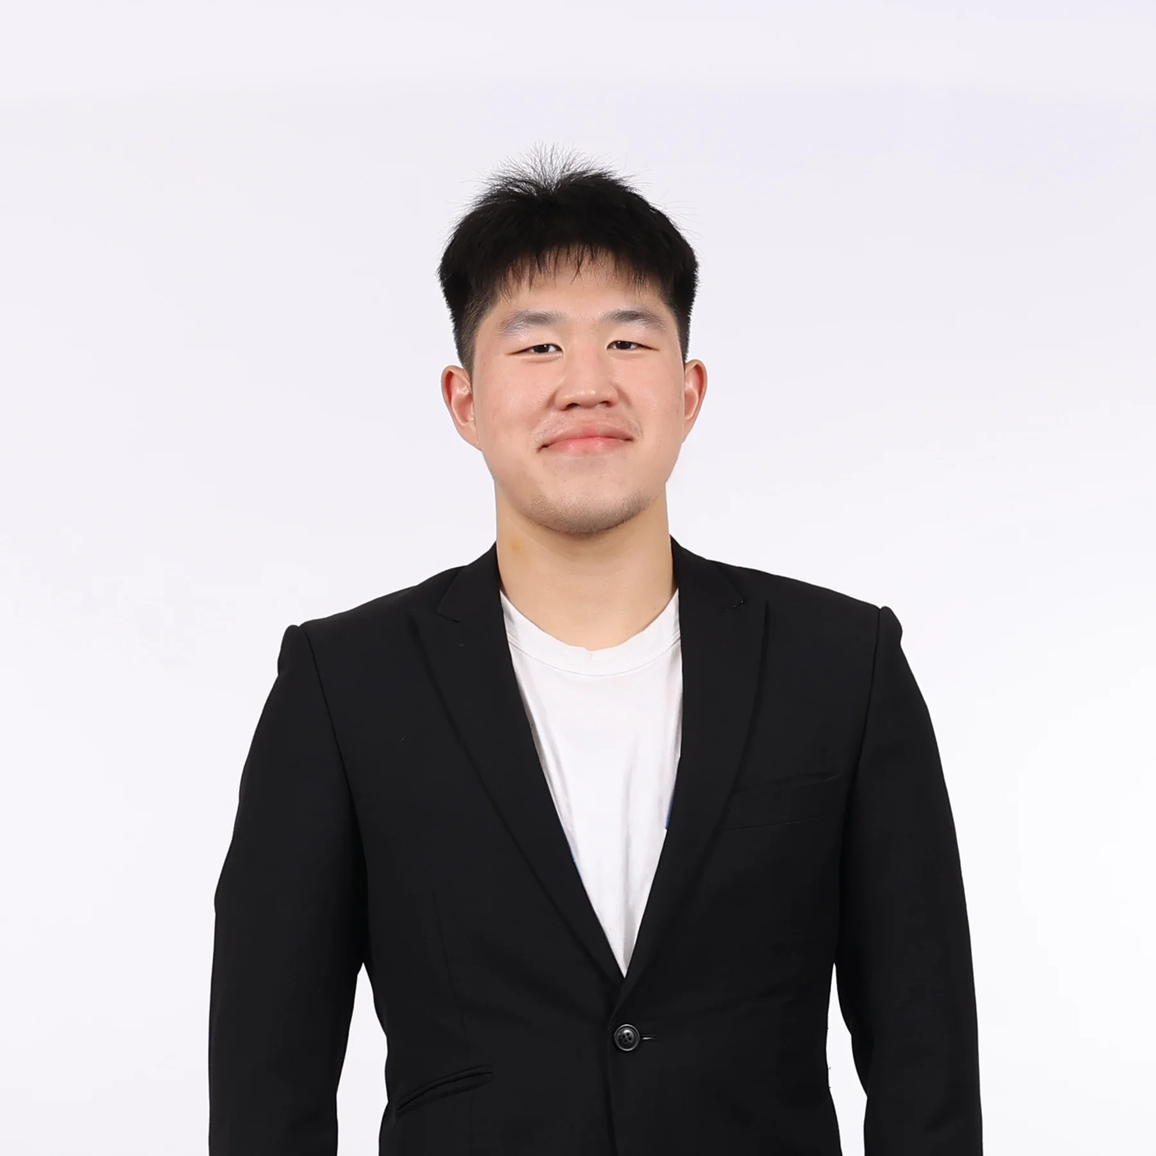
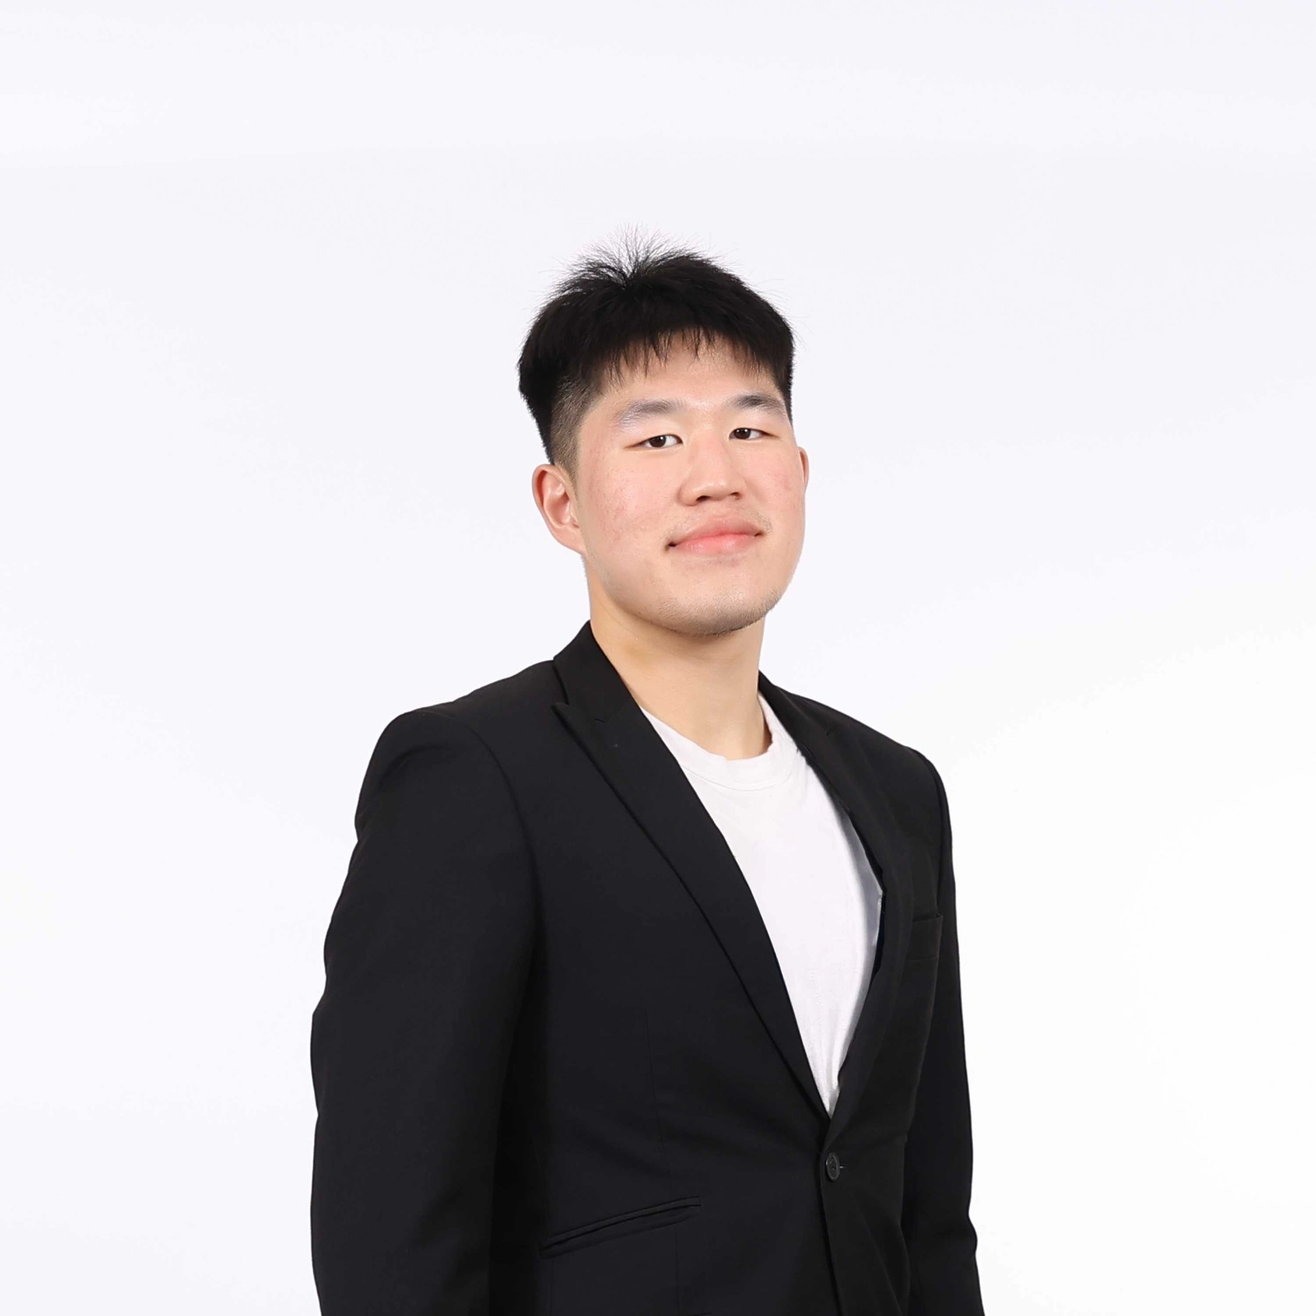
feat(visual): combined photographic refresh and official brand identities (#47)
* feat(visual): implement combined photographic refresh and official brand identities

- Replace professional hero portrait with high-resolution 2048x2048 authentic photo
- Upgrade FIBA U18 Asia Cup achievement photo to 2048x1365 authentic action capture
- Add FIBA U18 Asia Cup photo to active Athlete Gallery with full-resolution link and updated counts (All: 4, Indonesia: 3, DBL All-Star: 1)
- Integrate official R&E Technologies dark lockup into homepage entrepreneurship chapter
- Integrate official RBL gold emblem into homepage creative initiatives card
- Integrate official R&E and RBL brand logos into Projects supporting venture cards
- Update media manifest and media rights register with verified provenance
- Update gallery progressive fallback and content-media test suites

* docs(rights): refine FIBA U18 action photo verification basis

---------

Changed region(s): [[0.1556, 0.1244, 0.8711, 1.0], [0.5289, 0.8711, 0.56, 0.9022]]

diff --git a/src/components/editorial/gallery.tsx b/src/components/editorial/gallery.tsx
@@ -38,6 +38,15 @@ const photos: GalleryPhotoItem[] = [
       "Richie Linardi supplied photo archive · Approved derivative crop",
   },
   {
+    id: "fibaU18",
+    category: "indonesia",
+    title: "FIBA U18 Asia Cup 2024",
+    location: "Amman, Jordan",
+    year: "2024",
+    provenance:
+      "Owner-supplied tournament action photograph · FIBA U18 Asia Cup 2024",
+  },
+  {
     id: "allStar",
     category: "all-star",
     title: "DBL Indonesia All-Star 2024",
@@ -50,13 +59,18 @@ const photos: GalleryPhotoItem[] = [
 
 export function AthleteGallery() {
   const [activeFilter, setActiveFilter] = useState("all");
+  const allCount = photos.length;
+  const indonesiaCount = photos.filter(
+    (p) => p.category === "indonesia",
+  ).length;
+  const allStarCount = photos.filter((p) => p.category === "all-star").length;
 
   return (
     <>
       <PageIntro
         eyebrow="Personal Photo Archive"
         title="Moments that define the competitive journey."
-        description="On the court, with teammates, and at the podium. An authentic collection of high-resolution photographs documenting competition milestones across Da Nang and Jakarta."
+        description="On the court, with teammates, and at the podium. An authentic collection of high-resolution photographs documenting competition milestones across Amman, Da Nang and Jakarta."
       />
 
       <section
@@ -65,9 +79,9 @@ export function AthleteGallery() {
       >
         <div className="gallery-toolbar">
           <p className="gallery-count" aria-live="polite">
-            <span data-count="all">3 photographs</span>
-            <span data-count="indonesia">2 photographs</span>
-            <span data-count="all-star">1 photograph</span>
+            <span data-count="all">{`${allCount} photographs`}</span>
+            <span data-count="indonesia">{`${indonesiaCount} photographs`}</span>
+            <span data-count="all-star">{`${allStarCount} photograph`}</span>
           </p>
 
           <fieldset className="filter-tabs">
@@ -75,9 +89,9 @@ export function AthleteGallery() {
               Filter photographs by competition
             </legend>
             {[
-              ["all", "All photos (3)"],
-              ["indonesia", "Indonesia (2)"],
-              ["all-star", "DBL All-Star (1)"],
+              ["all", `All photos (${allCount})`],
+              ["indonesia", `Indonesia (${indonesiaCount})`],
+              ["all-star", `DBL All-Star (${allStarCount})`],
             ].map(([id, label]) => (
               <label className="filter-label" key={id}>
                 <input

diff --git a/src/data/media-manifest.ts b/src/data/media-manifest.ts
@@ -51,6 +51,57 @@ export const mediaManifest: readonly MediaItem[] = [
     height: photo.height,
   })),
   {
+    id: "re-brand-primary-dark",
+    filename: "/branding/re-primary-dark.webp",
+    targetRoute: "/",
+    mediaType: "image/webp",
+    provenance: "2. Approved derivative/crop",
+    caption: "R&E Technologies — owner-supplied brand identity",
+    altText: "R&E Technologies logo",
+    creditSource: "Owner-supplied R&E Technologies brand identity board",
+    usageStatus: "VERIFIED",
+    verificationBasis:
+      "Portfolio owner supplied the brand reference and requested section-specific website use; extracted without redrawing.",
+    mobileBehavior:
+      "Responsive, intrinsic dimensions and contained aspect ratio; no cropping.",
+    width: 368,
+    height: 236,
+  },
+  {
+    id: "re-brand-primary-light",
+    filename: "/branding/re-primary-light.webp",
+    targetRoute: "/projects",
+    mediaType: "image/webp",
+    provenance: "2. Approved derivative/crop",
+    caption: "R&E Technologies — owner-supplied brand identity",
+    altText: "R&E Technologies logo",
+    creditSource: "Owner-supplied R&E Technologies brand identity board",
+    usageStatus: "VERIFIED",
+    verificationBasis:
+      "Portfolio owner supplied the brand reference and requested section-specific website use; extracted without redrawing.",
+    mobileBehavior:
+      "Responsive, intrinsic dimensions and contained aspect ratio; no cropping.",
+    width: 408,
+    height: 259,
+  },
+  {
+    id: "rbl-brand-primary-dark",
+    filename: "/branding/rbl-primary-dark.webp",
+    targetRoute: "/",
+    mediaType: "image/webp",
+    provenance: "2. Approved derivative/crop",
+    caption: "RBL — owner-supplied brand identity",
+    altText: "RBL logo",
+    creditSource: "Owner-supplied RBL brand identity board",
+    usageStatus: "VERIFIED",
+    verificationBasis:
+      "Portfolio owner supplied the brand reference and requested section-specific website use; extracted without redrawing.",
+    mobileBehavior:
+      "Responsive, intrinsic dimensions and contained aspect ratio; no cropping.",
+    width: 487,
+    height: 415,
+  },
+  {
     id: "spy-market-architecture-diagram",
     filename: "/projects/spy-market/architecture-diagram.svg",
     targetRoute: "/projects/spy-market-agent",

diff --git a/src/app/projects/page.tsx b/src/app/projects/page.tsx
@@ -1,3 +1,4 @@
+import Image from "next/image";
 import Link from "next/link";
 import { PortfolioWorldShell } from "@/components/layout/portfolio-world-shell";
 import { professionalWorldNavigation } from "@/data/world-navigation";
@@ -162,7 +163,17 @@ export default function ProjectsPage() {
           <div className="card-grid card-grid--two">
             <article className="content-card">
               <p className="eyebrow">Technology Solutions Venture</p>
-              <h2 className="card-heading">R&E Technologies</h2>
+              <div className="venture-catalogue-brand">
+                <h2 className="card-heading">R&amp;E Technologies</h2>
+                <Image
+                  src="/branding/re-primary-light.webp"
+                  alt="R&E Technologies official logo"
+                  width={408}
+                  height={259}
+                  sizes="132px"
+                  className="venture-catalogue-logo"
+                />
+              </div>
               <p>
                 A broader technology solutions venture in development
                 (2026–Present) that develops its own software products while
@@ -173,7 +184,17 @@ export default function ProjectsPage() {
             </article>
             <article className="content-card">
               <p className="eyebrow">Personal Identity & Content</p>
-              <h2 className="card-heading">RBL</h2>
+              <div className="venture-catalogue-brand">
+                <h2 className="card-heading">RBL</h2>
+                <Image
+                  src="/branding/rbl-primary-dark.webp"
+                  alt="RBL official gold emblem"
+                  width={487}
+                  height={415}
+                  sizes="132px"
+                  className="venture-catalogue-logo"
+                />
+              </div>
               <p>
                 The supporting personal brand and athlete identity of Richie
                 Linardi, connecting collegiate basketball competition, media

diff --git a/src/components/editorial/home-pages.tsx b/src/components/editorial/home-pages.tsx
@@ -591,11 +591,12 @@ export function ProfessionalHome() {
               04 / Technology entrepreneurship · R&amp;E Technologies
             </span>
             <Image
-              src="/branding/re-mark-light.webp"
-              alt="R&E Technologies brand mark"
-              width={80}
-              height={47}
-              className="re-brand-mark"
+              src="/branding/re-primary-dark.webp"
+              alt="R&E Technologies official logo"
+              width={368}
+              height={236}
+              sizes="(max-width: 640px) 144px, 208px"
+              className="re-brand-mark re-brand-lockup"
             />
           </div>
 
@@ -778,7 +779,17 @@ export function ProfessionalHome() {
               <span className="venture-badge">
                 Creative &amp; Media Initiative · 2024–Present
               </span>
-              <h3 className="venture-wordmark">RBL</h3>
+              <div className="rbl-brand-heading">
+                <h3 className="venture-wordmark">RBL</h3>
+                <Image
+                  src="/branding/rbl-primary-dark.webp"
+                  alt="RBL official gold emblem"
+                  width={487}
+                  height={415}
+                  sizes="(max-width: 640px) 112px, 156px"
+                  className="rbl-brand-lockup"
+                />
+              </div>
               <p>
                 Creative media and digital storytelling initiative supporting
                 competitive basketball documentation, video production

diff --git a/src/styles/editorial.css b/src/styles/editorial.css
@@ -2313,6 +2313,40 @@ tbody th {
   border-radius: 4px;
 }
 
+.re-brand-lockup {
+  width: clamp(144px, 18vw, 208px);
+  height: auto;
+  max-width: 100%;
+  border-radius: 8px;
+  object-fit: contain;
+}
+
+.rbl-brand-heading,
+.venture-catalogue-brand {
+  display: flex;
+  align-items: center;
+  justify-content: space-between;
+  flex-wrap: wrap;
+  gap: 1rem;
+  margin-bottom: 0.75rem;
+}
+
+.rbl-brand-lockup {
+  width: clamp(112px, 15vw, 156px);
+  height: auto;
+  max-width: 100%;
+  border-radius: 8px;
+  object-fit: contain;
+}
+
+.venture-catalogue-logo {
+  width: 132px;
+  height: auto;
+  max-width: 100%;
+  border-radius: 6px;
+  object-fit: contain;
+}
+
 .re-title {
   font-size: clamp(2.4rem, 5.5vw, 4.2rem);
   font-weight: 850;

diff --git a/src/data/portfolio-photos.ts b/src/data/portfolio-photos.ts
@@ -1,8 +1,8 @@
 export const portfolioPhotos = {
   professional: {
     src: "/images/portfolio/richie-professional.webp",
-    width: 1800,
-    height: 1800,
+    width: 2048,
+    height: 2048,
     alt: "Richie Linardi in a black blazer and white shirt",
     caption: "Richie Linardi · Data Science & Applied AI",
     route: "/about",
@@ -49,8 +49,8 @@ export const portfolioPhotos = {
   },
   fibaU18: {
     src: "/images/portfolio/fiba-u18-asia-cup-2024.webp",
-    width: 600,
-    height: 338,
+    width: 2048,
+    height: 1365,
     alt: "Indonesia basketball player wearing a red number 13 jersey and dribbling during a game",
     caption: "FIBA U18 Asia Cup 2024 · Indonesia · Amman, Jordan",
     route: "/basketball/achievements",

diff --git a/docs/MEDIA_RIGHTS_REGISTER.md b/docs/MEDIA_RIGHTS_REGISTER.md
@@ -22,17 +22,17 @@ Every candidate and published asset is audited against five mutually exclusive p
 
 The following assets are published under `public/` and registered in `src/data/media-manifest.ts` and `src/data/portfolio-photos.ts`:
 
-| Filename                                                              | Target Route                          | Media Type      | Provenance Tier                     | Caption & Description                                                                      | Credit / Source                                                    | Usage Status | Verification Basis & Boundaries                                                                                                         |
-| :-------------------------------------------------------------------- | :------------------------------------ | :-------------- | :---------------------------------- | :----------------------------------------------------------------------------------------- | :----------------------------------------------------------------- | :----------- | :-------------------------------------------------------------------------------------------------------------------------------------- |
-| `public/images/portfolio/richie-professional.webp`                    | `/about`                              | `image/webp`    | **2. Approved derivative/crop**     | Richie Linardi in a black blazer and white shirt.                                          | Richie Linardi · supplied personal photo archive                   | `LICENSED`   | Owner-supplied personal archive with explicit website authorization. Optimized from original photographs without generated content.     |
-| `public/images/portfolio/monash-campus.webp`                          | `/education`                          | `image/webp`    | **2. Approved derivative/crop**     | Richie standing outside the Monash University Malaysia entrance.                           | Richie Linardi · supplied personal photo archive                   | `LICENSED`   | Owner-supplied personal archive with explicit website authorization. Optimized from original photographs without generated content.     |
-| `public/images/portfolio/ai-video-hackathon-kl-2026.webp`             | `/experience`                         | `image/webp`    | **2. Approved derivative/crop**     | Richie beside the AI Video Hackathon KL 2026 event banner (Team Midnight Owls).            | Richie Linardi · supplied personal photo archive                   | `LICENSED`   | Owner-supplied personal archive with explicit website authorization. Optimized from original photographs without generated content.     |
-| `public/images/portfolio/asg-2024-gold-medal.webp`                    | `/basketball/gallery`                 | `image/webp`    | **2. Approved derivative/crop**     | Richie holding his gold medal while wearing Indonesia team kit · ASEAN Schools Games 2024. | Richie Linardi · supplied personal photo archive                   | `LICENSED`   | Owner-supplied personal archive with explicit website authorization. Optimized from original photographs without generated content.     |
-| `public/images/portfolio/asg-2024-team.webp`                          | `/basketball/gallery`                 | `image/webp`    | **2. Approved derivative/crop**     | Indonesia teammates celebrating together with their ASG gold medals.                       | Richie Linardi · supplied personal photo archive                   | `LICENSED`   | Owner-supplied personal archive with explicit website authorization. Optimized from original photographs without generated content.     |
-| `public/images/portfolio/dbl-indonesia-all-star-2024.webp`            | `/basketball`                         | `image/webp`    | **2. Approved derivative/crop**     | Richie dribbling in a red Indonesia number 13 All-Star uniform.                            | Richie Linardi · supplied personal photo archive                   | `LICENSED`   | Owner-supplied personal archive with explicit website authorization. Optimized from original photographs without generated content.     |
-| `public/images/portfolio/fiba-u18-asia-cup-2024.webp`                 | `/basketball/achievements`            | `image/webp`    | **2. Approved derivative/crop**     | Richie Linardi (No. 13) dribbling for Indonesia at the FIBA U18 Asia Cup in Amman, Jordan. | Owner-supplied tournament action photo · FIBA U18 Asia Cup 2024    | `LICENSED`   | Owner-supplied photograph with explicit website publication authorization. Optimized to WebP without generative modifications.          |
-| `public/projects/spy-market/architecture-diagram.svg`                 | `/projects/spy-market-agent`          | `image/svg+xml` | **4. Generated decorative diagram** | SPY Market Agent · Walk-Forward Research Engine & Paper-Only Safety Gates.                 | Public source repository (`Linardi1328/spy-market-agent`)          | `VERIFIED`   | Traces 100% to `src/data/project-registry.ts`. Boundary: Paper execution only; live automated trading strictly prohibited.              |
-| `public/projects/personal-project-operator/operator-architecture.svg` | `/projects/personal-project-operator` | `image/svg+xml` | **4. Generated decorative diagram** | Personal Project Operator · Telegram/OpenClaw Command Layer & Explicit Write Gate.         | Public source repository (`Linardi1328/personal-project-operator`) | `VERIFIED`   | Traces 100% to `src/data/project-registry.ts`. Boundary: Operator manual gate required before executing remote Git mutations or pushes. |
+| Filename                                                              | Target Route                                    | Media Type      | Provenance Tier                     | Caption & Description                                                                      | Credit / Source                                                    | Usage Status | Verification Basis & Boundaries                                                                                                                                                                                           |
+| :-------------------------------------------------------------------- | :---------------------------------------------- | :-------------- | :---------------------------------- | :----------------------------------------------------------------------------------------- | :----------------------------------------------------------------- | :----------- | :------------------------------------------------------------------------------------------------------------------------------------------------------------------------------------------------------------------------ |
+| `public/images/portfolio/richie-professional.webp`                    | `/about, /`                                     | `image/webp`    | **2. Approved derivative/crop**     | Richie Linardi in a black blazer and white shirt.                                          | Richie Linardi · supplied personal photo archive                   | `LICENSED`   | High-resolution original portrait supplied by the owner with explicit portfolio release authorization. Conventional WebP processing, no generative reconstruction.                                                        |
+| `public/images/portfolio/monash-campus.webp`                          | `/education`                                    | `image/webp`    | **2. Approved derivative/crop**     | Richie standing outside the Monash University Malaysia entrance.                           | Richie Linardi · supplied personal photo archive                   | `LICENSED`   | Owner-supplied personal archive with explicit website authorization. Optimized from original photographs without generated content.                                                                                       |
+| `public/images/portfolio/ai-video-hackathon-kl-2026.webp`             | `/experience`                                   | `image/webp`    | **2. Approved derivative/crop**     | Richie beside the AI Video Hackathon KL 2026 event banner (Team Midnight Owls).            | Richie Linardi · supplied personal photo archive                   | `LICENSED`   | Owner-supplied personal archive with explicit website authorization. Optimized from original photographs without generated content.                                                                                       |
+| `public/images/portfolio/asg-2024-gold-medal.webp`                    | `/basketball/gallery`                           | `image/webp`    | **2. Approved derivative/crop**     | Richie holding his gold medal while wearing Indonesia team kit · ASEAN Schools Games 2024. | Richie Linardi · supplied personal photo archive                   | `LICENSED`   | Owner-supplied personal archive with explicit website authorization. Optimized from original photographs without generated content.                                                                                       |
+| `public/images/portfolio/asg-2024-team.webp`                          | `/basketball/gallery`                           | `image/webp`    | **2. Approved derivative/crop**     | Indonesia teammates celebrating together with their ASG gold medals.                       | Richie Linardi · supplied personal photo archive                   | `LICENSED`   | Owner-supplied personal archive with explicit website authorization. Optimized from original photographs without generated content.                                                                                       |
+| `public/images/portfolio/dbl-indonesia-all-star-2024.webp`            | `/basketball`                                   | `image/webp`    | **2. Approved derivative/crop**     | Richie dribbling in a red Indonesia number 13 All-Star uniform.                            | Richie Linardi · supplied personal photo archive                   | `LICENSED`   | Owner-supplied personal archive with explicit website authorization. Optimized from original photographs without generated content.                                                                                       |
+| `public/images/portfolio/fiba-u18-asia-cup-2024.webp`                 | `/basketball/achievements, /basketball/gallery` | `image/webp`    | **2. Approved derivative/crop**     | Richie Linardi (No. 13) dribbling for Indonesia at the FIBA U18 Asia Cup in Amman, Jordan. | Owner-supplied tournament action photo · FIBA U18 Asia Cup 2024    | `LICENSED`   | Upgraded 2048x1365 tournament action photograph supplied directly by the portfolio owner with explicit website publication authorization. Optimized to WebP via conventional processing without generative modifications. |
+| `public/projects/spy-market/architecture-diagram.svg`                 | `/projects/spy-market-agent`                    | `image/svg+xml` | **4. Generated decorative diagram** | SPY Market Agent · Walk-Forward Research Engine & Paper-Only Safety Gates.                 | Public source repository (`Linardi1328/spy-market-agent`)          | `VERIFIED`   | Traces 100% to `src/data/project-registry.ts`. Boundary: Paper execution only; live automated trading strictly prohibited.                                                                                                |
+| `public/projects/personal-project-operator/operator-architecture.svg` | `/projects/personal-project-operator`           | `image/svg+xml` | **4. Generated decorative diagram** | Personal Project Operator · Telegram/OpenClaw Command Layer & Explicit Write Gate.         | Public source repository (`Linardi1328/personal-project-operator`) | `VERIFIED`   | Traces 100% to `src/data/project-registry.ts`. Boundary: Operator manual gate required before executing remote Git mutations or pushes.                                                                                   |
 
 ---
 
@@ -72,3 +72,11 @@ Before publishing any new photograph, illustration, video, logo, or diagram:
 4. **Third-Party Branding**: Do not distribute recreated SVGs of third-party corporate or federation logos. Use neutral typographic tags and direct external links to the published source.
 5. **SVG Claim Truth**: Technical architecture diagrams must be grounded in verified repository contracts (`src/data/project-registry.ts`). No speculative metrics or unreleased features.
 6. **Content-Truth Coherence**: The repository verification gate (`npm run truth:check`) must pass with zero warnings before any merge or deployment.
+
+### Section-specific venture brand marks
+
+- `/branding/re-primary-dark.webp` — R&E Technologies dark full lockup; homepage entrepreneurship chapter.
+- `/branding/re-primary-light.webp` — R&E Technologies light full lockup; Projects venture card.
+- `/branding/rbl-primary-dark.webp` — RBL navy-and-gold primary emblem; homepage creative initiatives and Projects venture card.
+
+All three are conventional crops of the corresponding owner-supplied brand identity boards and authorized by the portfolio owner for this use. No mockup text, company contact details, independent trademark-registration claims, or newly generated logo artwork are included. The personal site header remains unchanged.
